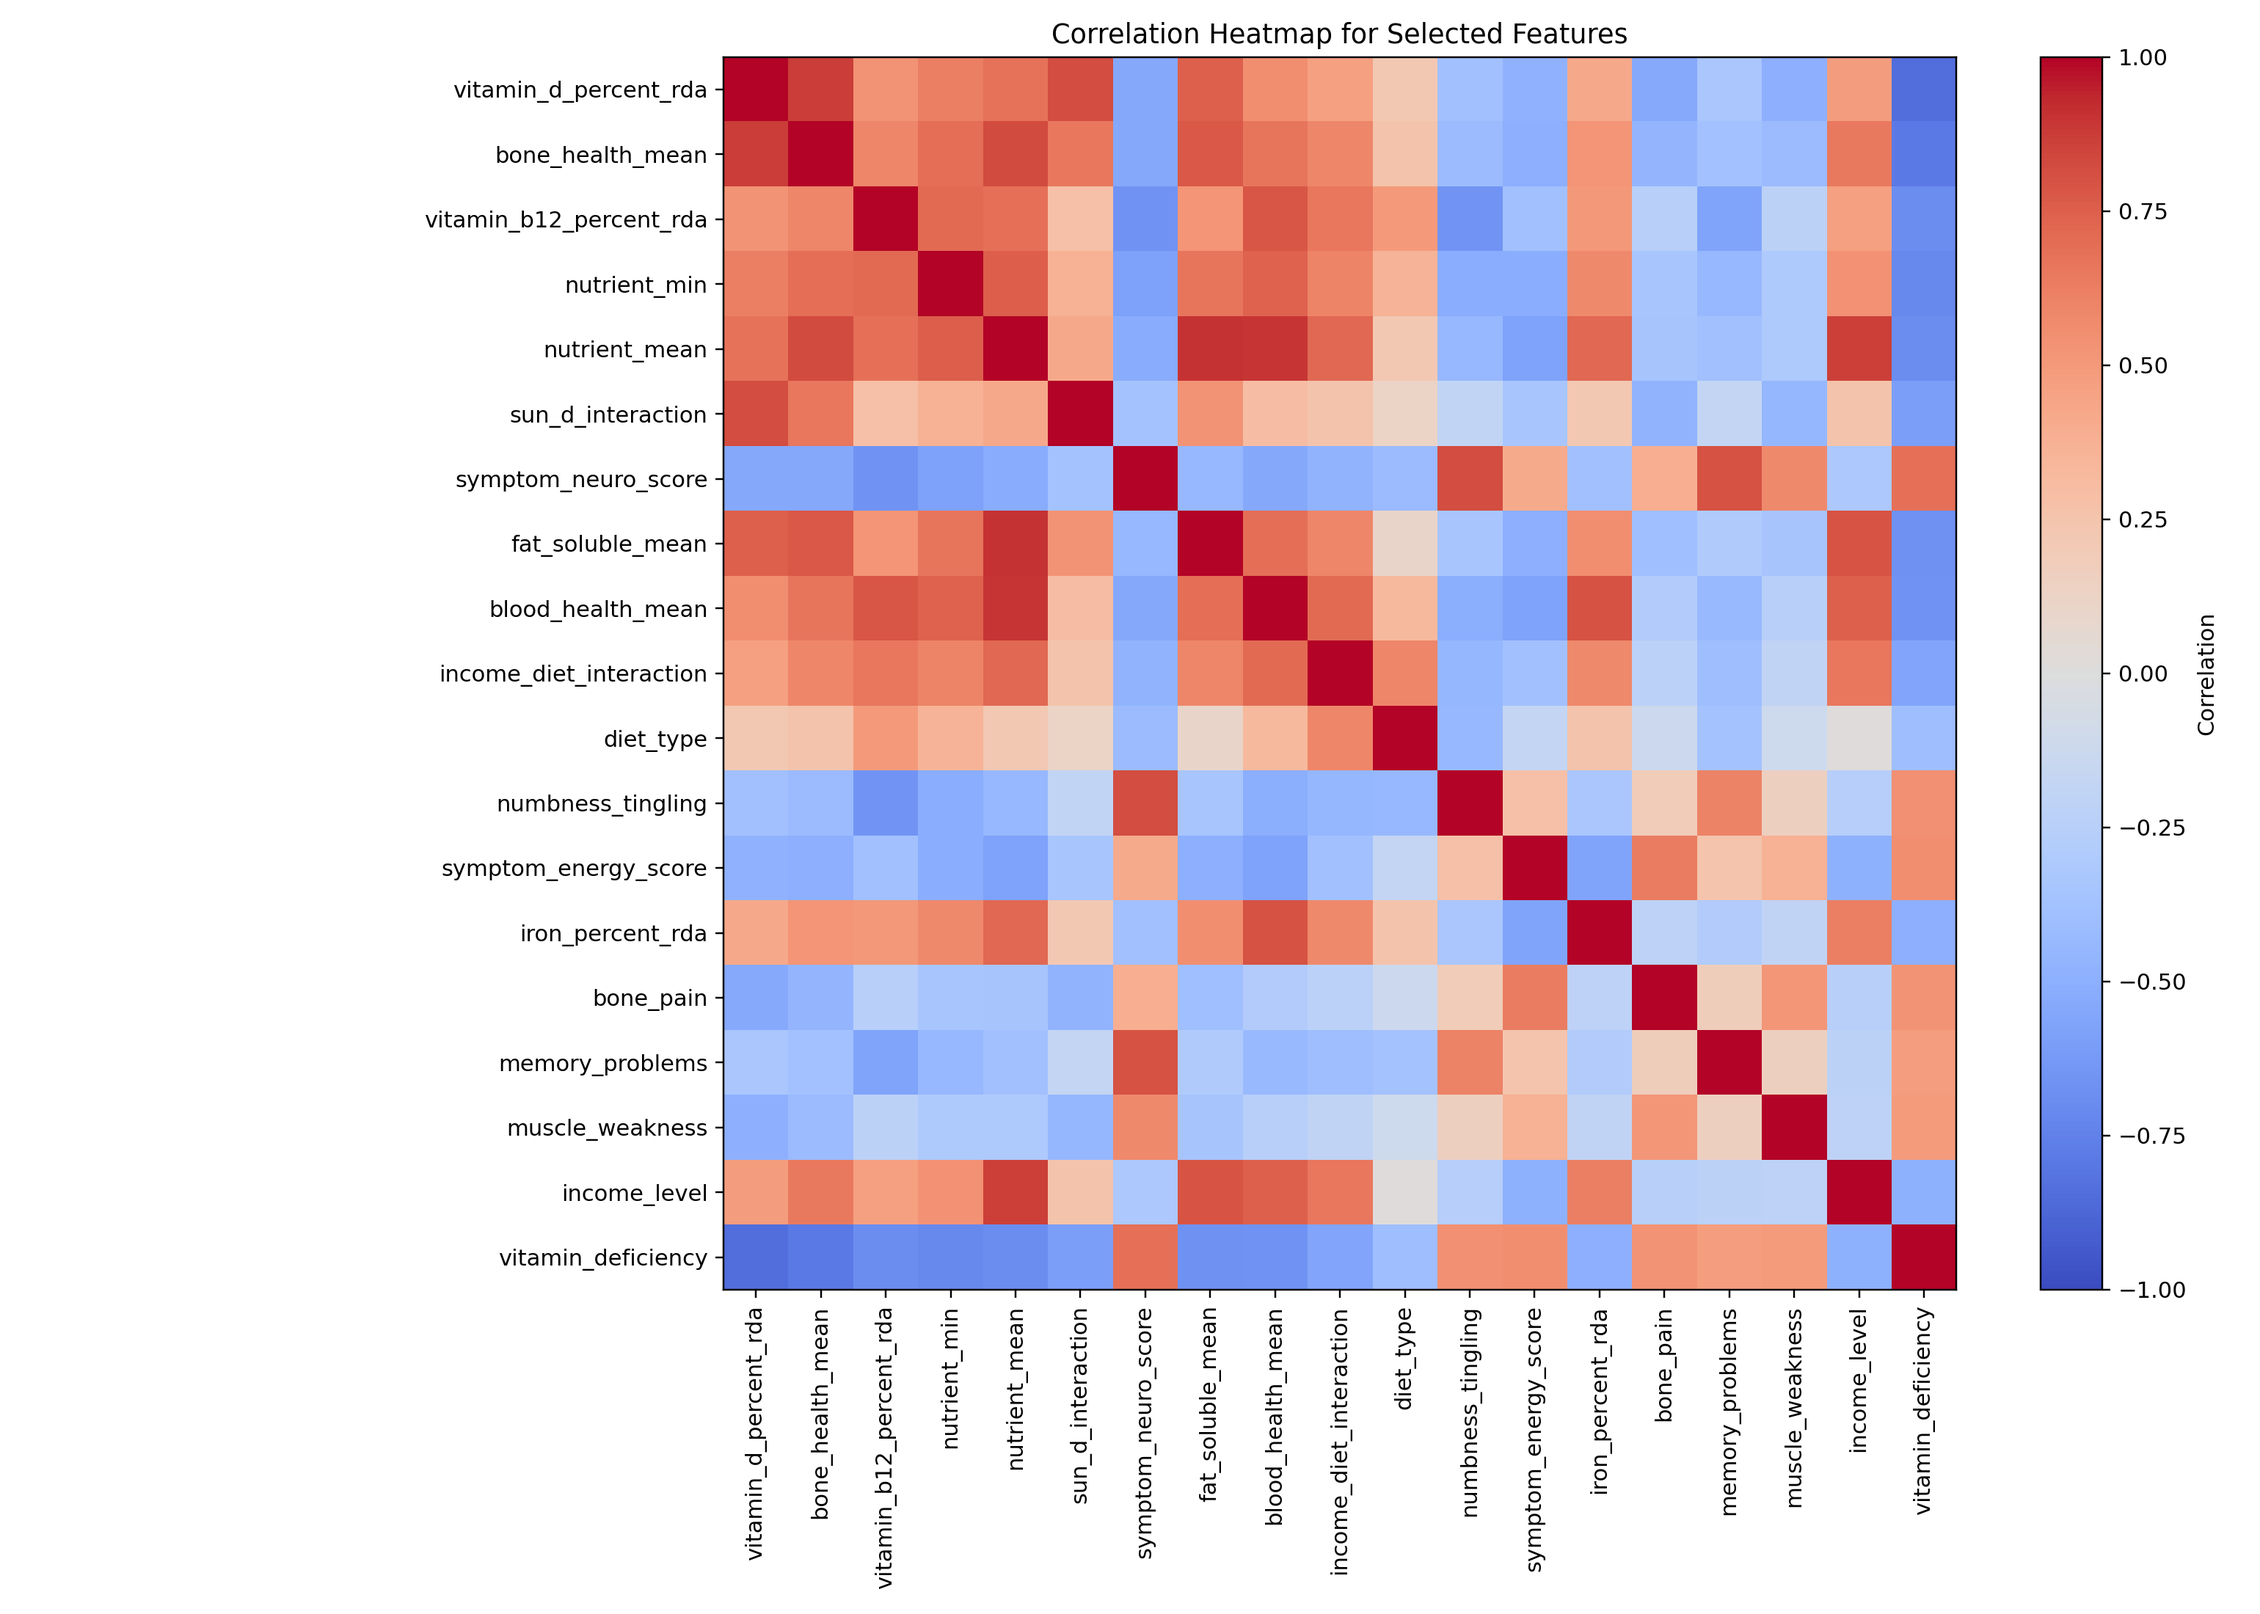
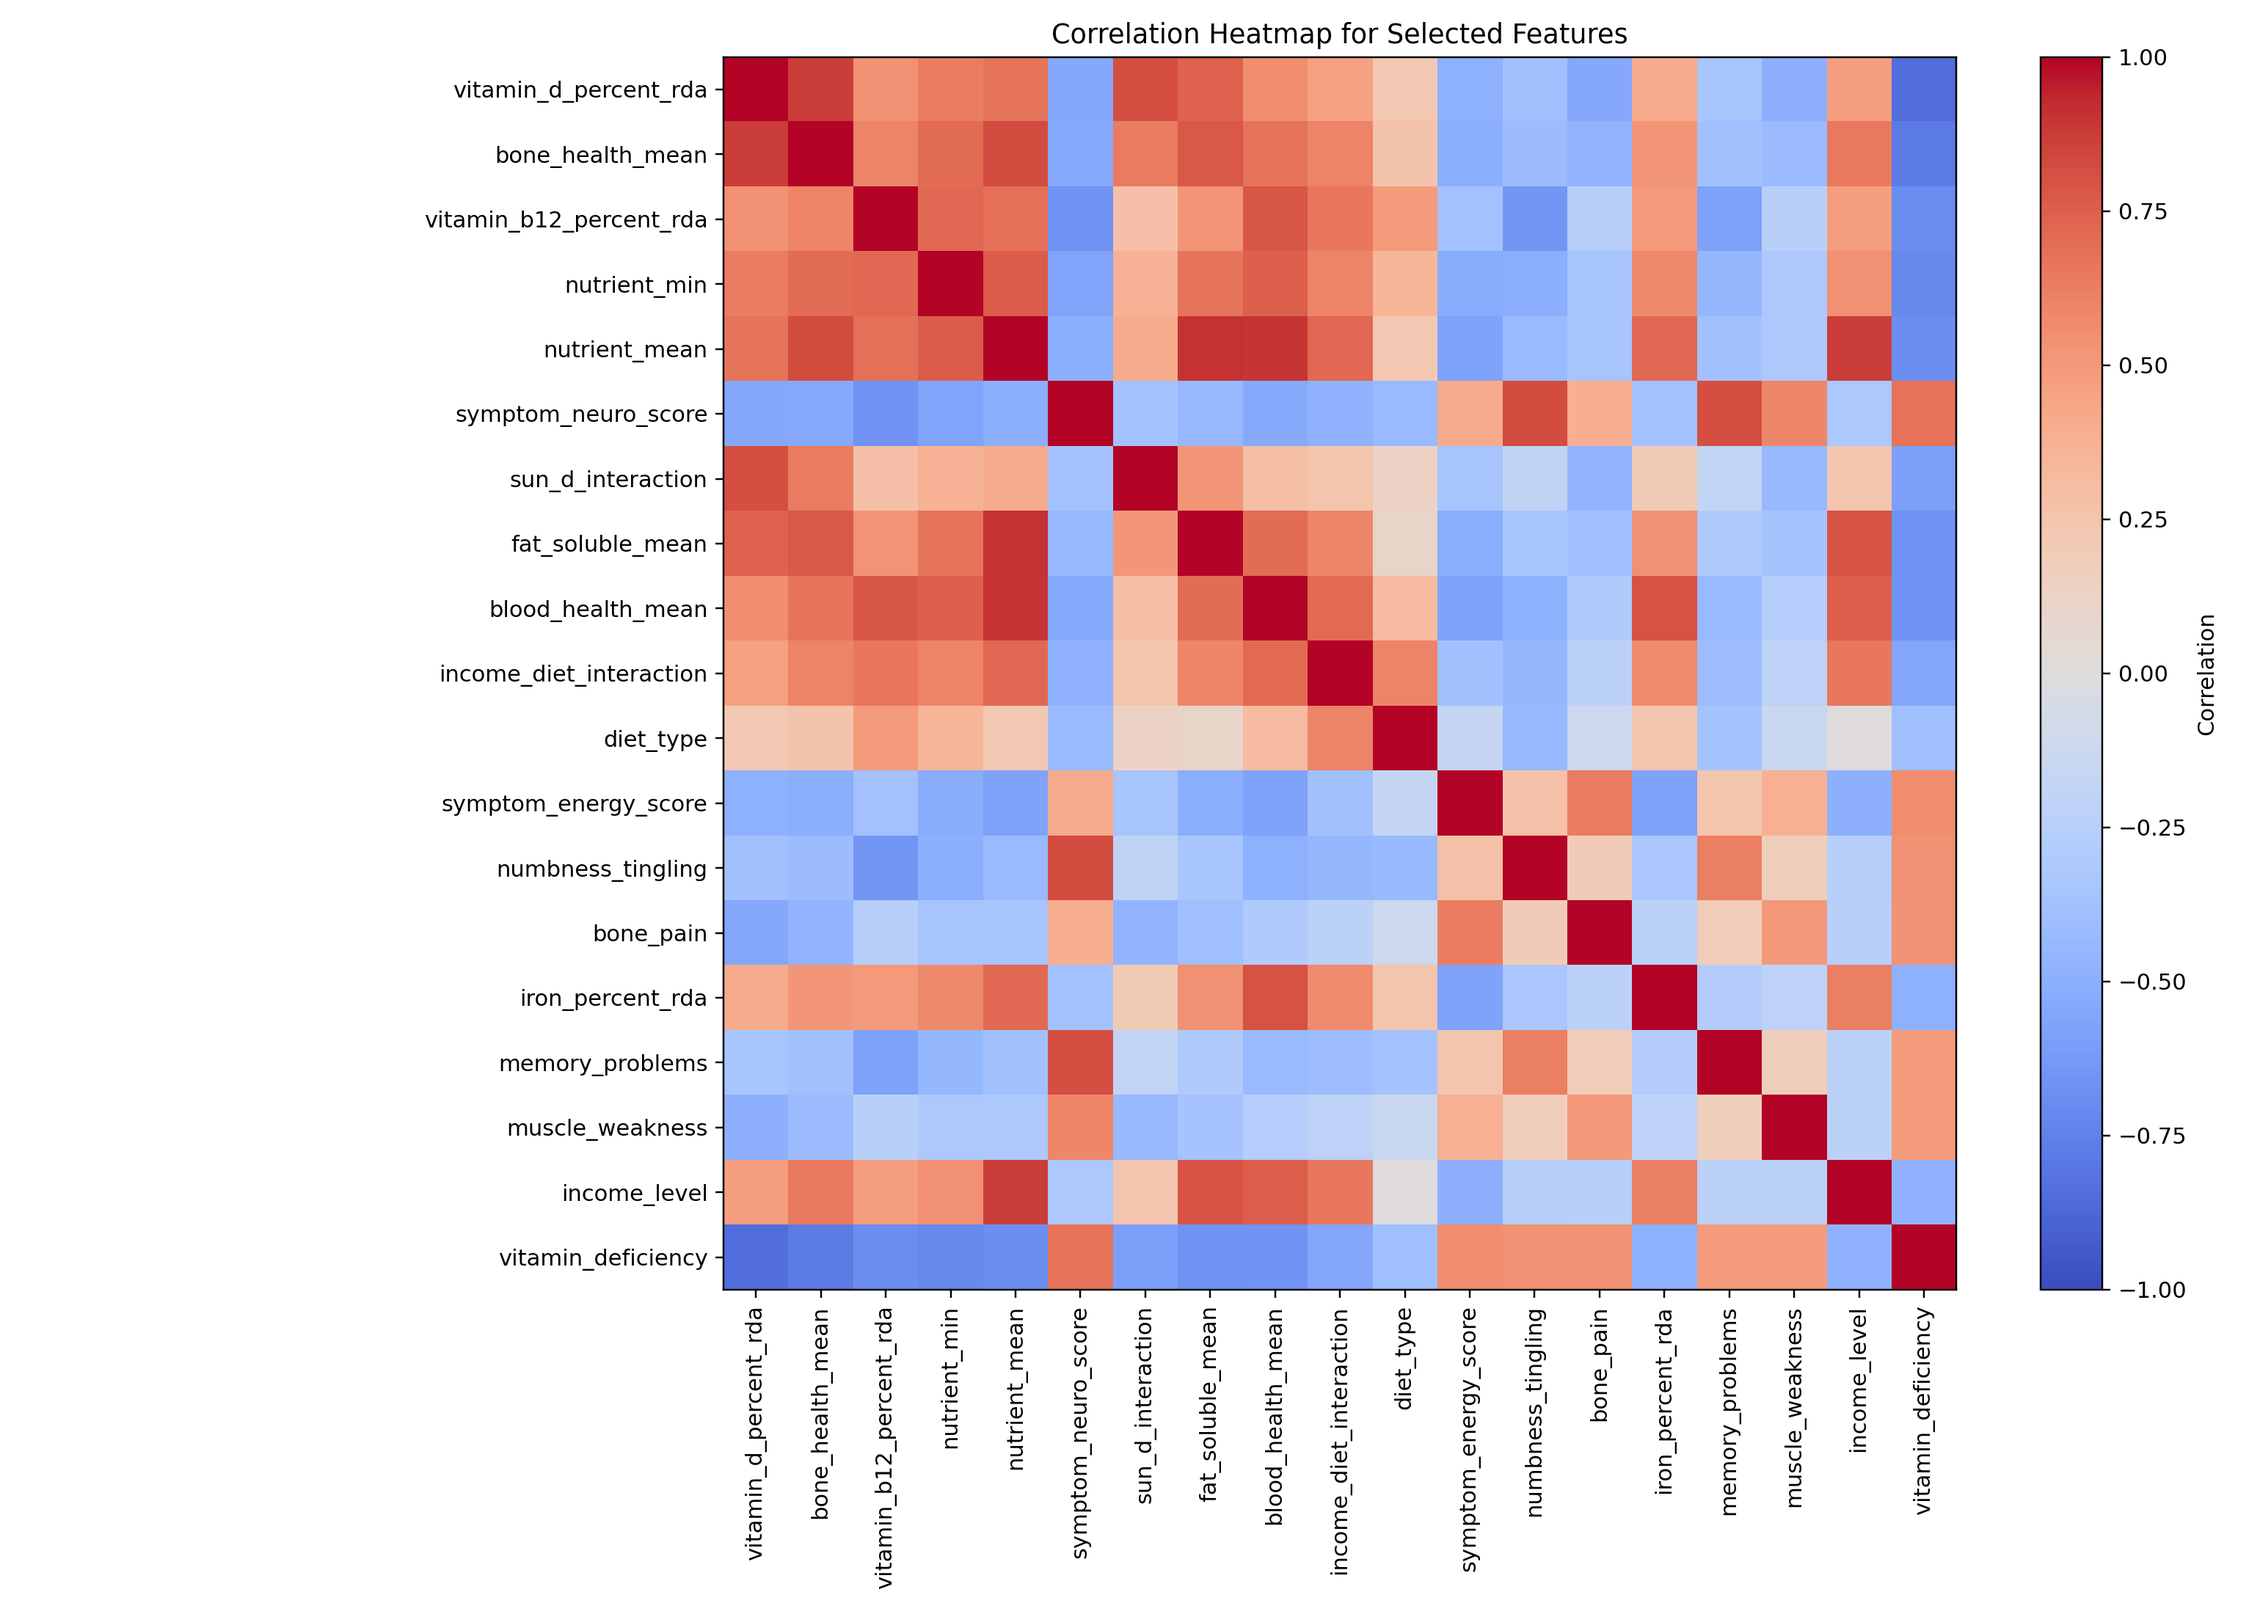
update

Changed region(s): [[0.2182, 0.0309, 0.8727, 0.8036], [0.6234, 0.8345, 0.7481, 0.9582], [0.4675, 0.8345, 0.5299, 0.9273]]

diff --git a/main.py b/main.py
@@ -11,12 +11,12 @@ from sklearn.linear_model import ElasticNet
 from sklearn.metrics import mean_absolute_error, mean_squared_error, r2_score
 from sklearn.model_selection import train_test_split
 from sklearn.preprocessing import StandardScaler
+pd.set_option('display.max_columns', None)
 
-
-RANDOM_STATE = 42
+RANDOM_STATE = 67
 TARGET_COLUMN = "vitamin_deficiency"
 DATA_PATH = "train_data_processed.csv"
-OUTPUT_DIR = ".\\outputs"
+OUTPUT_DIR = ".\\outputs\\"
 
 SYMPTOM_COLUMNS = [
     "night_blindness",
@@ -72,10 +72,6 @@ def engineer_features(df: pd.DataFrame):
 def remove_unwanted_features(X: pd.DataFrame, correlation_threshold: float = 0.95):
     cleaned = X.copy()
     dropped_features = []
-
-    # duplicate_rows = cleaned.duplicated().sum()
-    # if duplicate_rows:
-    #     cleaned = cleaned.loc[~cleaned.duplicated()].copy()
 
     zero_variance = [column for column in cleaned.columns if cleaned[column].nunique() <= 1]
     if zero_variance:
@@ -143,30 +139,6 @@ def cap_outliers_iqr(X_train: pd.DataFrame, X_test: pd.DataFrame, bounds):
     return X_train_capped, X_test_capped
 
 
-# def save_dataset_overview(
-#     df: pd.DataFrame,
-#     feature_scores: pd.Series,
-#     dropped_features: list[str],
-#     manually_removed_features: list[str],
-#     outlier_summary: pd.DataFrame,
-# ) -> None:
-#     overview_path = OUTPUT_DIR / "dataset_summary.txt"
-#     with overview_path.open("w", encoding="utf-8") as file:
-#         file.write(f"Rows: {df.shape[0]}\n")
-#         file.write(f"Columns: {df.shape[1]}\n")
-#         file.write(f"Missing values: {int(df.isna().sum().sum())}\n")
-#         all_removed = manually_removed_features + dropped_features
-#         file.write(f"Dropped redundant features: {', '.join(all_removed) or 'None'}\n\n")
-#         file.write("Top outlier counts from training data (IQR method):\n")
-#         file.write(
-#             outlier_summary.head(10)[["feature", "outlier_count", "outlier_ratio"]]
-#             .round(4)
-#             .to_string(index=False)
-#         )
-#         file.write("\n\n")
-#         file.write("Top mutual information feature scores:\n")
-#         file.write(feature_scores.head(18).round(6).to_string())
-
 
 def plot_target_distribution(y: pd.Series):
     fig, ax = plt.subplots(figsize=(8, 5))
@@ -227,57 +199,79 @@ def plot_correlation_heatmap(df: pd.DataFrame, selected_columns: list[str]) -> N
     plt.close(fig)
 
 
-def build_models() -> dict[str, object]:
-    elastic_net = Pipeline(
-        steps=[
-            ("scaler", StandardScaler()),
-            ("model", ElasticNet(alpha=0.01, l1_ratio=0.35, max_iter=10000)),
-        ]
-    )
-
-    models = {
-        "ElasticNet": TransformedTargetRegressor(
-            regressor=elastic_net, func=np.log1p, inverse_func=np.expm1
-        ),
-        "RandomForest": RandomForestRegressor(
-            n_estimators=400,
-            max_depth=10,
-            min_samples_split=6,
-            min_samples_leaf=2,
-            random_state=RANDOM_STATE,
-            n_jobs=-1,
-        ),
-        "GradientBoosting": GradientBoostingRegressor(
-            n_estimators=300,
-            learning_rate=0.05,
-            max_depth=3,
-            random_state=RANDOM_STATE,
-        ),
-    }
-    return models
-
-
-def evaluate_models(models, X_train, X_test, y_train, y_test):
+def evaluate_models(X_train, X_test, y_train, y_test):
     rows = []
     predictions = {}
 
-    for model_name, model in models.items():
-        model.fit(X_train, y_train)
-        y_pred = np.clip(model.predict(X_test), a_min=0, a_max=None)
-        predictions[model_name] = y_pred
+    scaler = StandardScaler()
+    X_train_scaled = scaler.fit_transform(X_train)
+    X_test_scaled = scaler.transform(X_test)
 
-        rows.append(
-            {
-                "model": model_name,
-                "r2_score": r2_score(y_test, y_pred),
-                "rmse": float(np.sqrt(mean_squared_error(y_test, y_pred))),
-                "mae": mean_absolute_error(y_test, y_pred),
-            }
-        )
+    y_train_log = np.log1p(y_train)
 
-    metrics = pd.DataFrame(rows).sort_values(by="r2_score", ascending=False).reset_index(
-        drop=True
+    elastic_net = ElasticNet(alpha=0.01, l1_ratio=0.35, max_iter=10000)
+    elastic_net.fit(X_train_scaled, y_train_log)
+
+    y_pred_log = elastic_net.predict(X_test_scaled)
+    y_pred = np.expm1(y_pred_log)
+    y_pred = np.clip(y_pred, a_min=0, a_max=None)
+
+    predictions["ElasticNet"] = y_pred
+
+    rows.append(
+        {
+            "model": "ElasticNet",
+            "r2_score": r2_score(y_test, y_pred),
+            "rmse": float(np.sqrt(mean_squared_error(y_test, y_pred))),
+            "mae": mean_absolute_error(y_test, y_pred),
+        }
     )
+
+
+    random_forest = RandomForestRegressor(
+        n_estimators=400,
+        max_depth=10,
+        min_samples_split=6,
+        min_samples_leaf=2,
+        random_state=RANDOM_STATE,
+        n_jobs=-1,
+    )
+    random_forest.fit(X_train, y_train)
+
+    y_pred = np.clip(random_forest.predict(X_test), a_min=0, a_max=None)
+    predictions["RandomForest"] = y_pred
+
+    rows.append(
+        {
+            "model": "RandomForest",
+            "r2_score": r2_score(y_test, y_pred),
+            "rmse": float(np.sqrt(mean_squared_error(y_test, y_pred))),
+            "mae": mean_absolute_error(y_test, y_pred),
+        }
+    )
+
+    
+    gradient_boosting = GradientBoostingRegressor(
+        n_estimators=300,
+        learning_rate=0.05,
+        max_depth=3,
+        random_state=RANDOM_STATE,
+    )
+    gradient_boosting.fit(X_train, y_train)
+
+    y_pred = np.clip(gradient_boosting.predict(X_test), a_min=0, a_max=None)
+    predictions["GradientBoosting"] = y_pred
+
+    rows.append(
+        {
+            "model": "GradientBoosting",
+            "r2_score": r2_score(y_test, y_pred),
+            "rmse": float(np.sqrt(mean_squared_error(y_test, y_pred))),
+            "mae": mean_absolute_error(y_test, y_pred),
+        }
+    )
+
+    metrics = pd.DataFrame(rows).sort_values(by="r2_score", ascending=False).reset_index(drop=True)
     return metrics, predictions
 
 
@@ -317,38 +311,10 @@ def plot_model_predictions(y_test, predictions, metrics):
         line_ax.legend()
 
     fig.tight_layout()
-    fig.savefig(OUTPUT_DIR / "model_predictions.png", dpi=220)
+    fig.savefig(OUTPUT_DIR + "model_predictions.png", dpi=220)
     plt.close(fig)
 
 
-# def save_results(
-#     X_train: pd.DataFrame,
-#     X_test: pd.DataFrame,
-#     y_test: pd.Series,
-#     metrics: pd.DataFrame,
-#     predictions: dict[str, np.ndarray],
-#     feature_scores: pd.Series,
-#     outlier_summary: pd.DataFrame):
-#     metrics.to_csv(OUTPUT_DIR / "model_metrics.csv", index=False)
-#     feature_scores.rename("mutual_information").to_csv(OUTPUT_DIR / "feature_scores.csv")
-#     outlier_summary.to_csv(OUTPUT_DIR / "outlier_summary.csv", index=False)
-
-#     prediction_frame = pd.DataFrame({"actual": y_test.reset_index(drop=True)})
-#     for model_name, y_pred in predictions.items():
-#         prediction_frame[f"{model_name}_predicted"] = y_pred
-#     prediction_frame.to_csv(OUTPUT_DIR / "test_predictions.csv", index=False)
-
-#     selected_features = pd.DataFrame({"selected_feature": X_train.columns})
-#     selected_features.to_csv(OUTPUT_DIR / "selected_features.csv", index=False)
-
-#     train_test_shapes = pd.DataFrame(
-#         {
-#             "split": ["train", "test"],
-#             "rows": [X_train.shape[0], X_test.shape[0]],
-#             "columns": [X_train.shape[1], X_test.shape[1]],
-#         }
-#     )
-#     train_test_shapes.to_csv(OUTPUT_DIR / "train_test_shapes.csv", index=False)
 
 
 def main():
@@ -372,15 +338,11 @@ def main():
     X_train_selected, X_test_selected, feature_scores = select_features(X_train_capped, y_train, X_test_capped)
     plot_correlation_heatmap(pd.concat([X_train_capped[X_train_selected.columns], y_train], axis=1), X_train_selected.columns.tolist())
 
-    models = build_models()
 
-    metrics, predictions = evaluate_models(models, X_train_selected, X_test_selected, y_train, y_test)
+    metrics, predictions = evaluate_models(X_train_selected, X_test_selected, y_train, y_test)
     plot_model_predictions(y_test, predictions, metrics)
 
-    # save_results(X_train_selected, X_test_selected, y_test, metrics, predictions, feature_scores, outlier_summary)
-
-    print("Regression pipeline complete.")
-    print(f"Outputs saved to: {OUTPUT_DIR.resolve()}")
+    print("Regression complete.")
     print("\nModel performance:")
     print(metrics.round(4).to_string(index=False))
 
